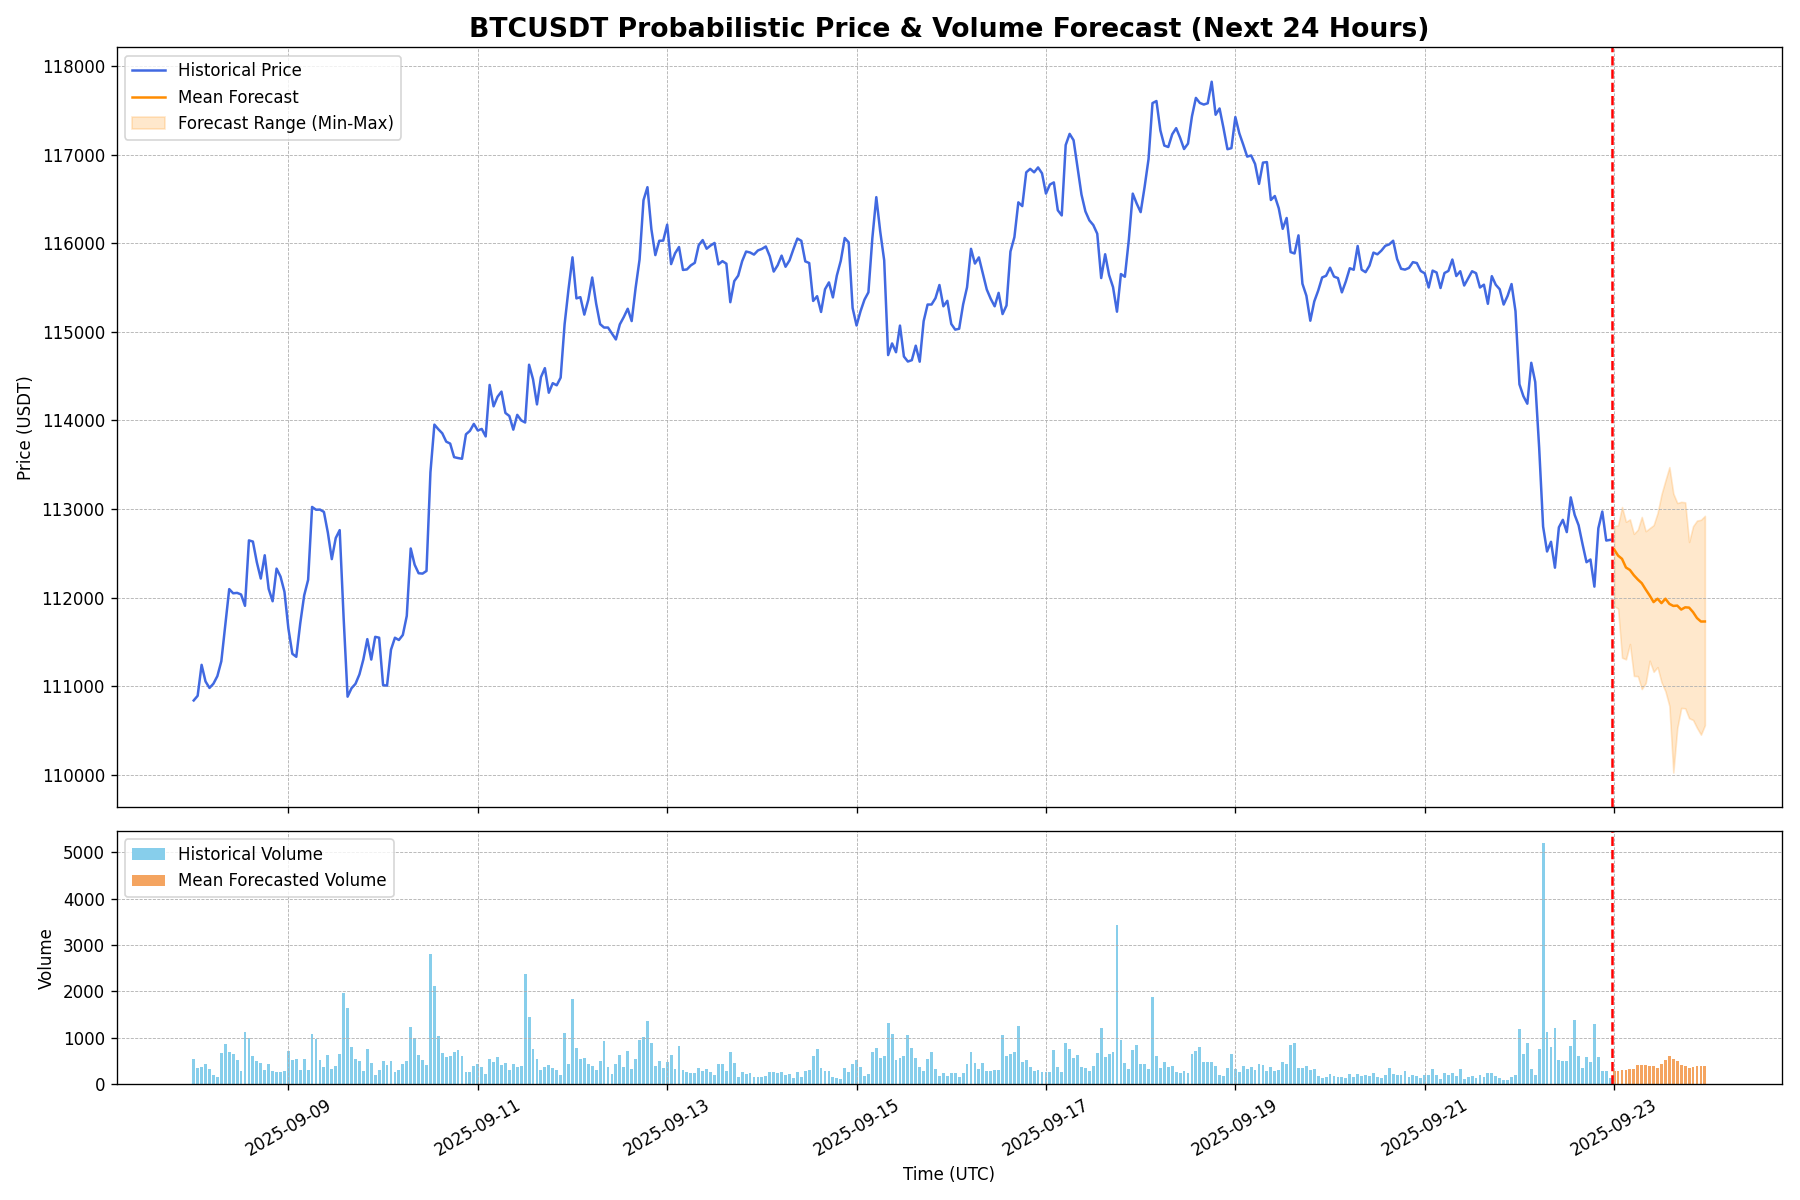
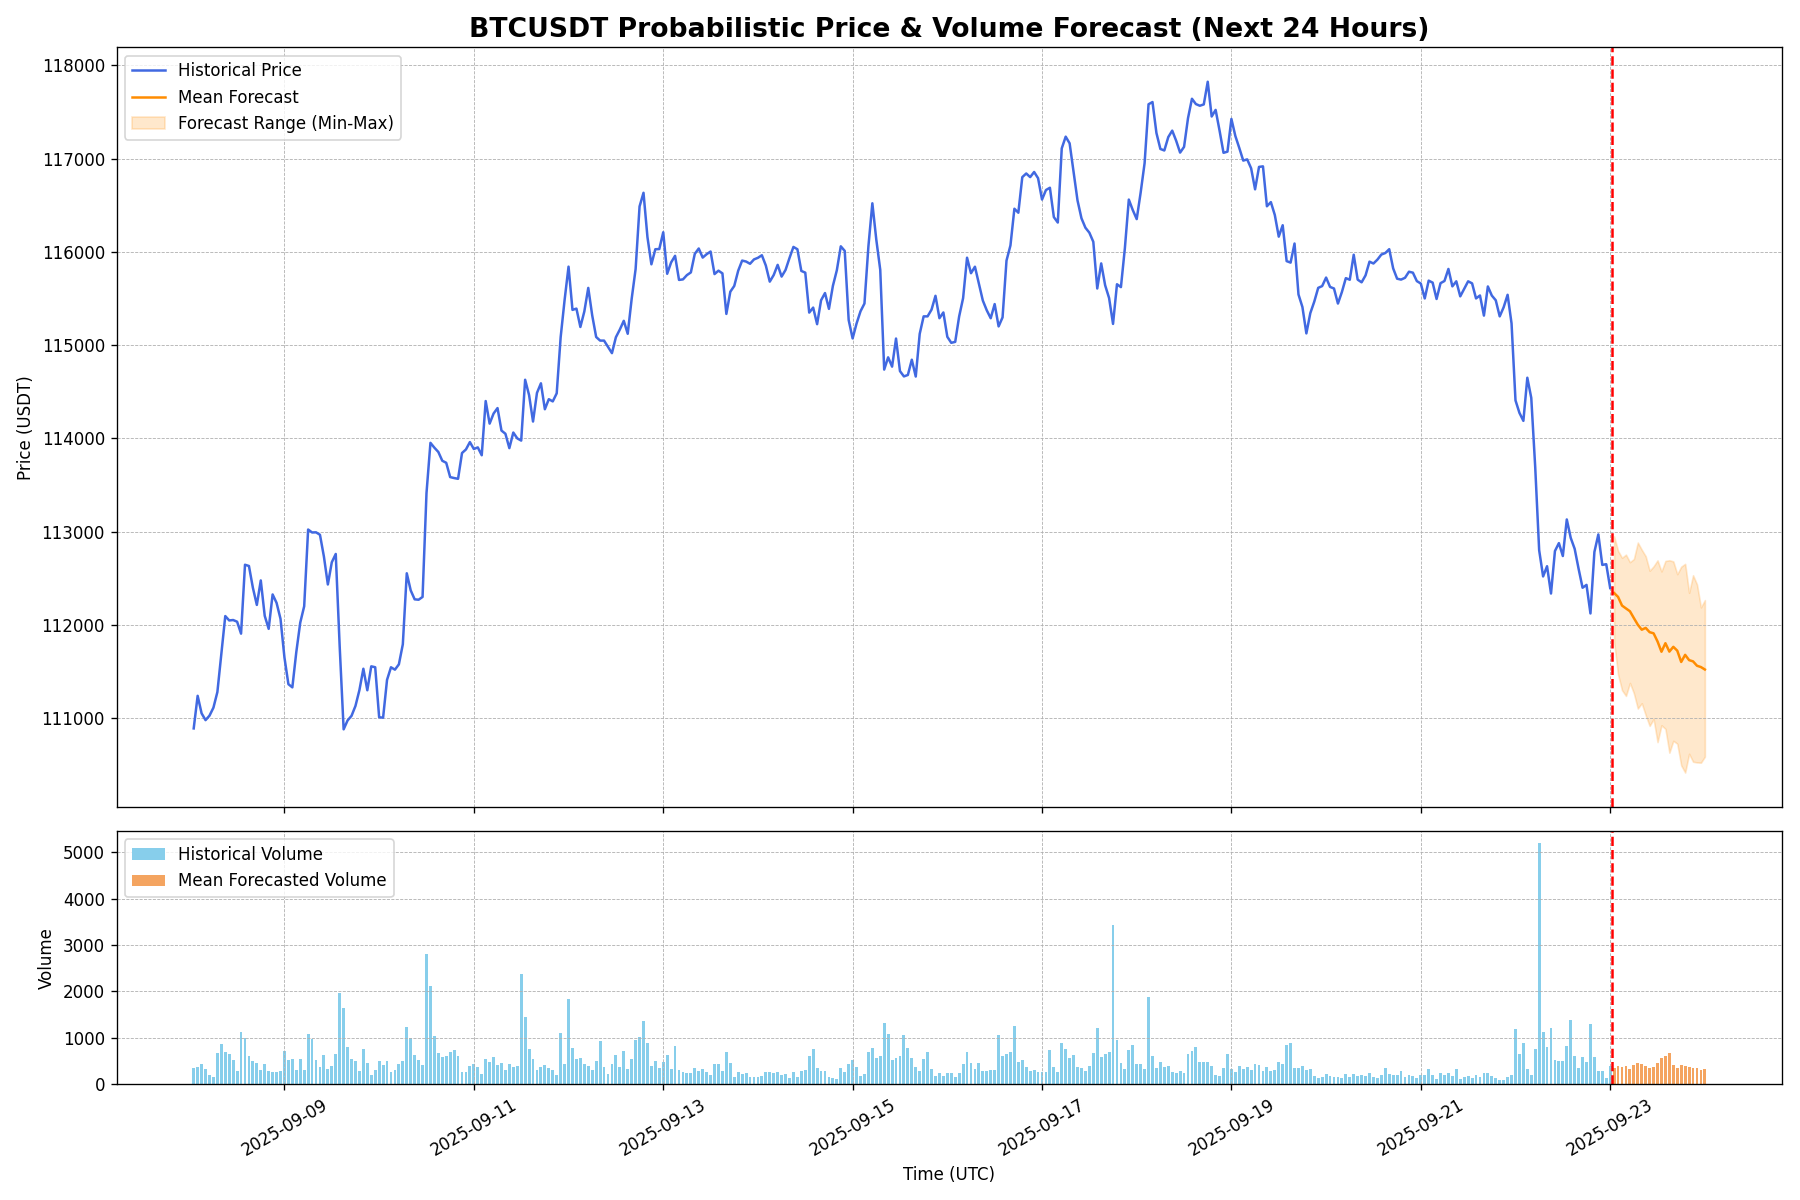
Auto-update forecast for 2025-09-23 01:00 UTC

diff --git a/index.html b/index.html
@@ -22,14 +22,14 @@
         <section id="live-dashboard">
             <h2>Live BTC/USDT Forecast Dashboard</h2>
             <div class="metadata">
-                <span>Last Updated (UTC): <strong id="update-time">2025-09-23 00:00:44</strong></span>
+                <span>Last Updated (UTC): <strong id="update-time">2025-09-23 01:00:48</strong></span>
                 <span>Data Source: Binance | Interval: 1-Hour</span>
             </div>
 
             <div class="metrics-container">
                 <div class="metric-card">
                     <h3>Upside Probability (Next 24h)</h3>
-                    <p class="metric-value" id="upside-prob">6.7%</p>
+                    <p class="metric-value" id="upside-prob">0.0%</p>
                     <div class="metric-desc">The model's confidence that the price in 24 hours will be higher than the last known price.</div>
                 </div>
                 <div class="metric-card">
